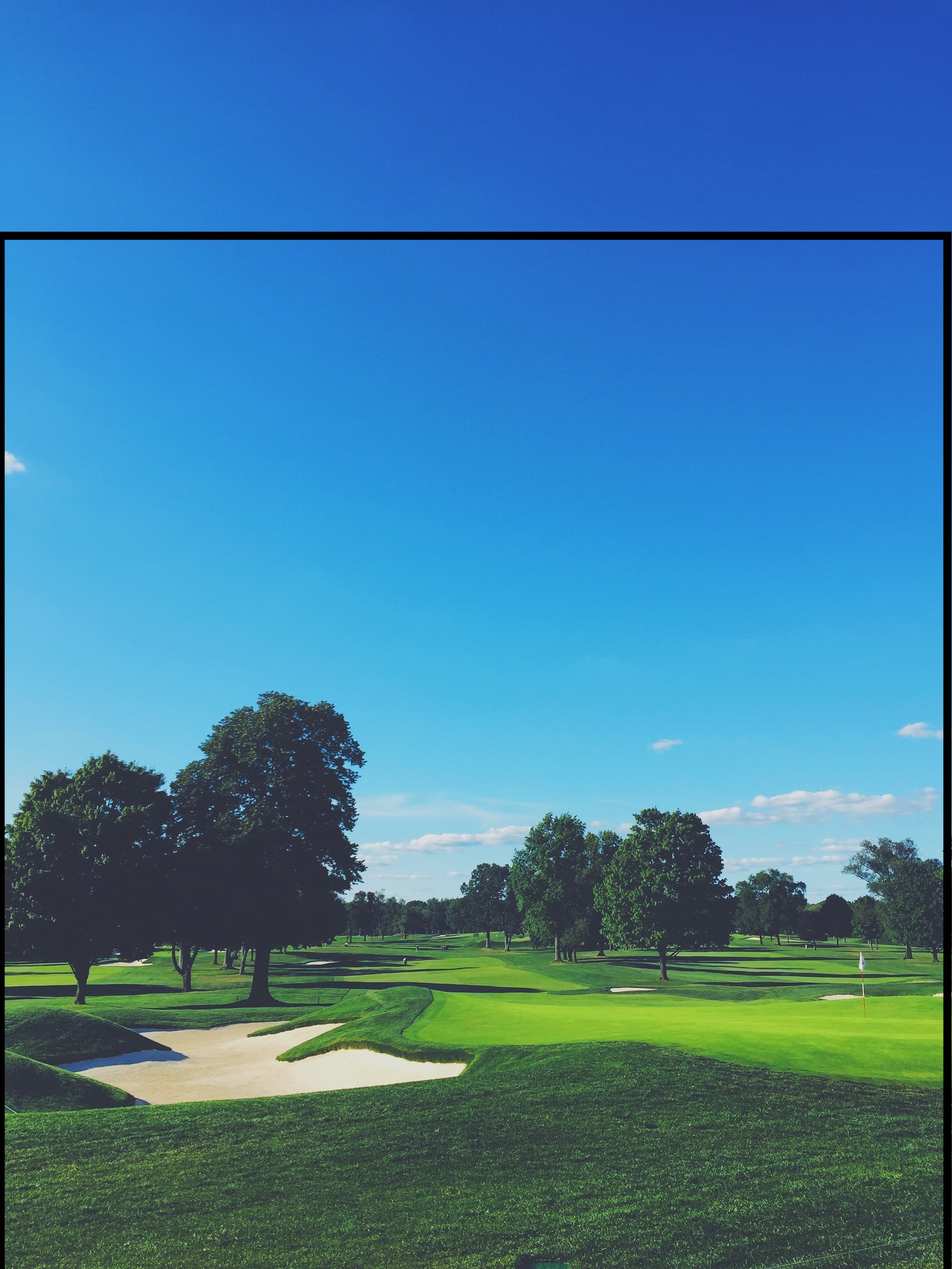
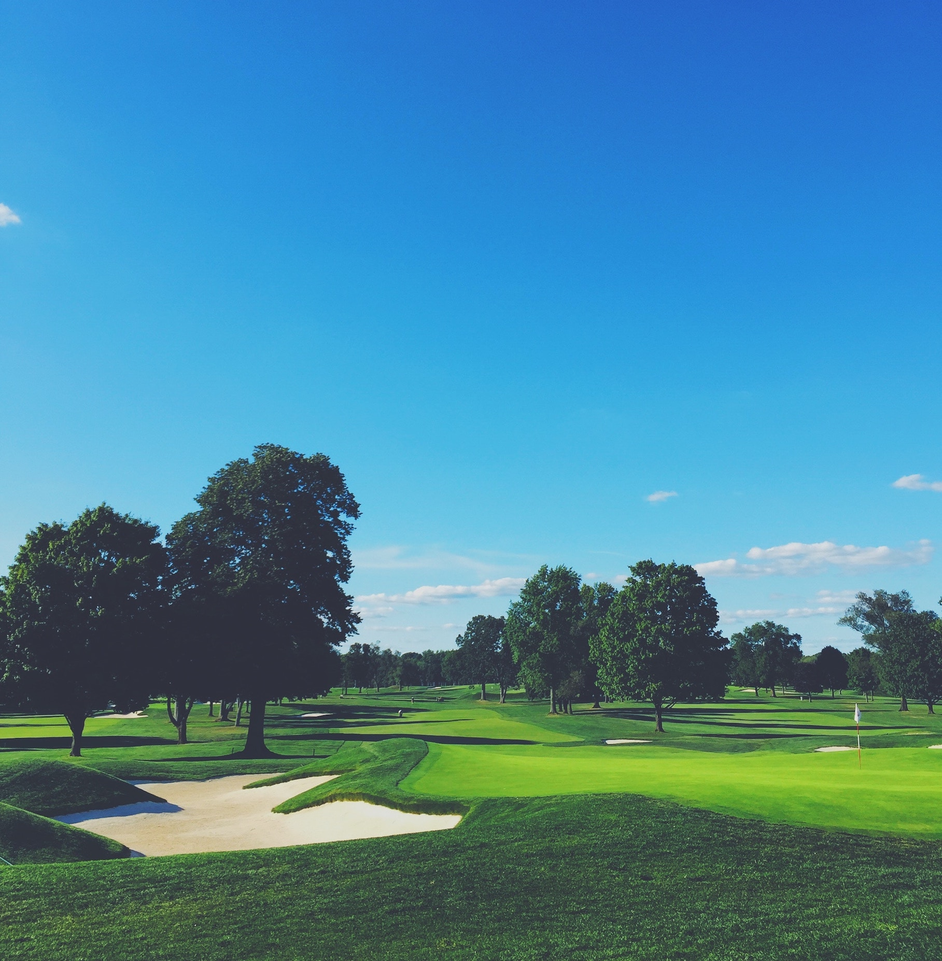
layout fixes

diff --git a/app/assets/stylesheets/master.css.scss b/app/assets/stylesheets/master.css.scss
@@ -177,7 +177,7 @@ mark {
 }
 
 .hero-image {
-  background-image: url('/assets/tee.jpg');
+  background-image: url('/assets/course.jpg');
   background-position: center;
   background-repeat: no-repeat;
   background-size: cover;
